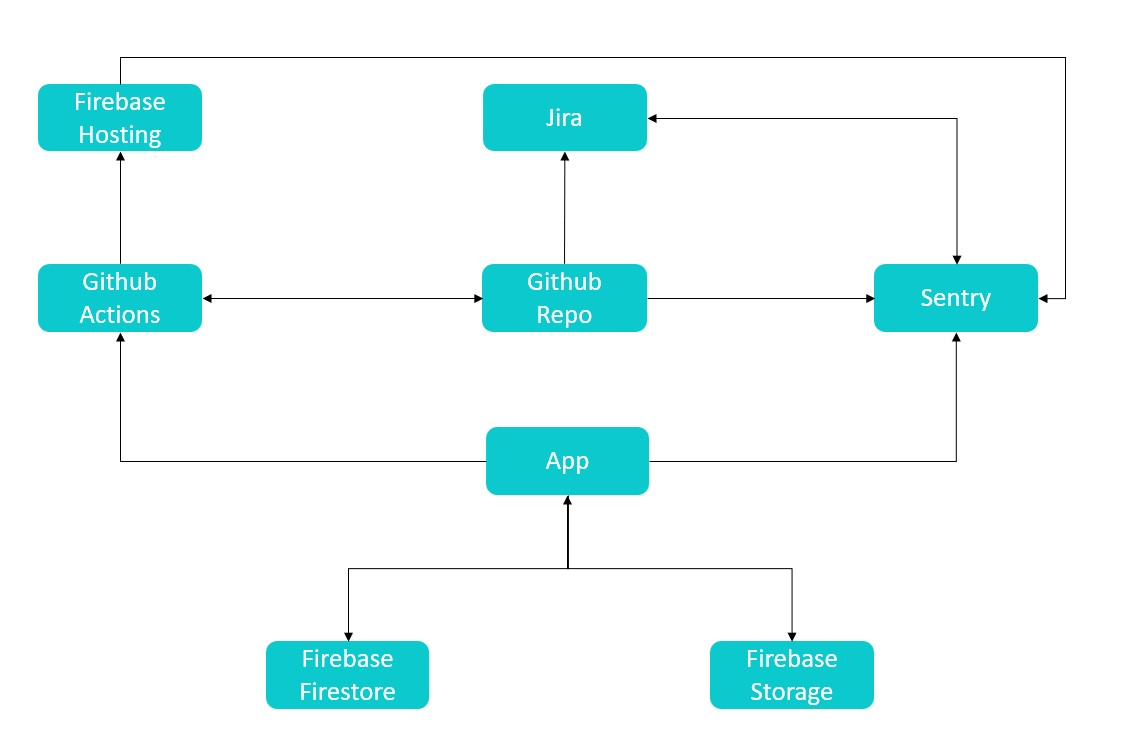
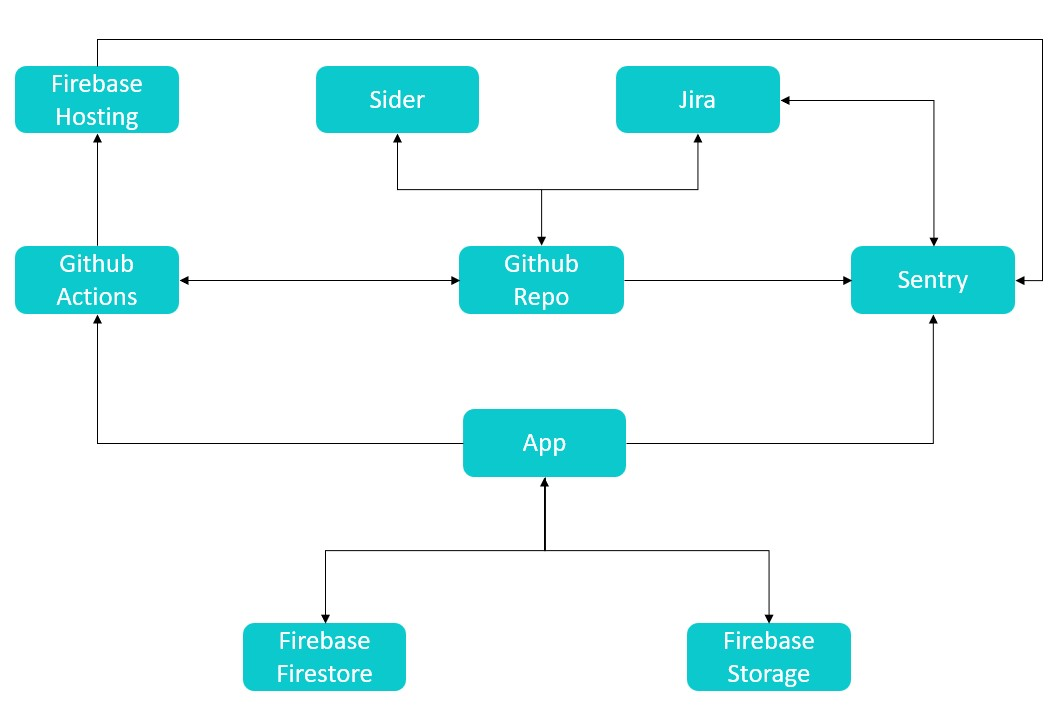
added sider

diff --git a/src/README.md b/src/README.md
@@ -30,6 +30,16 @@ To generate docs, run :
 npm run docs 
 ```
 
+### Sentry
+
+Sentry is integrated in the app as well as in Github repo and Jira.
+A bidirectionnal flow is set between Sentry's issues and Jira's. 
+
+### Sider
+
+Automated Code Review on each PR.
+For now, test mode is enable so it doesn't block any PRs. 
+
 ## Project setup
 
 ```sh

diff --git a/README.md b/README.md
@@ -39,6 +39,11 @@ npm run docs
 Sentry is integrated in the app as well as in Github repo and Jira.
 A bidirectionnal flow is set between Sentry's issues and Jira's. 
 
+### Sider
+
+Automated Code Review on each PR.
+For now, test mode is enable so it doesn't block any PRs. 
+
 ## APIs
 
 - Reverse Geocode (MapQuest)
